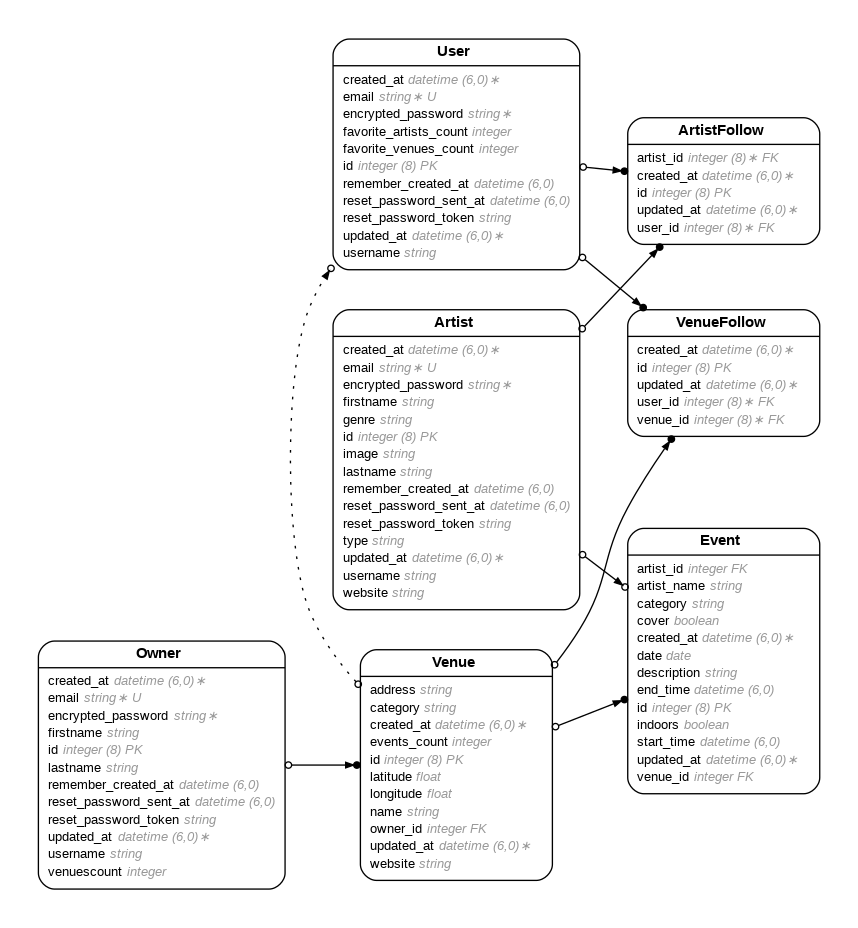
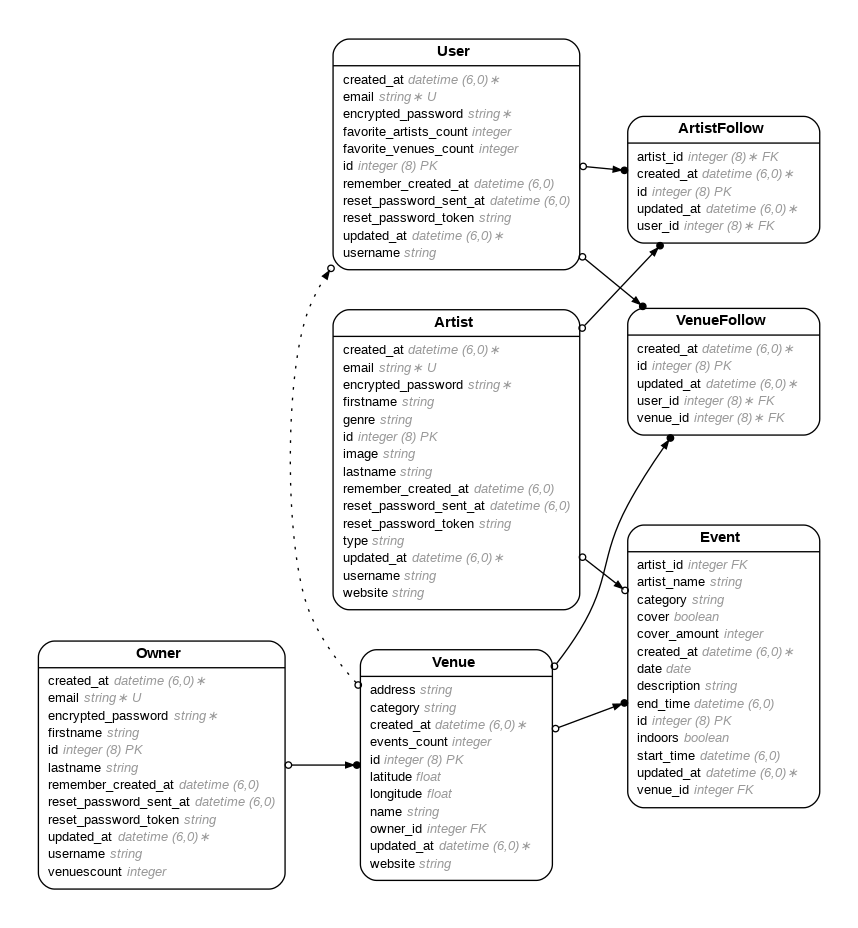
working event view

diff --git a/app/models/event.rb b/app/models/event.rb
@@ -2,19 +2,20 @@
 #
 # Table name: events
 #
-#  id          :bigint           not null, primary key
-#  artist_name :string
-#  category    :string
-#  cover       :boolean
-#  date        :date
-#  description :string
-#  end_time    :datetime
-#  indoors     :boolean
-#  start_time  :datetime
-#  created_at  :datetime         not null
-#  updated_at  :datetime         not null
-#  artist_id   :integer
-#  venue_id    :integer
+#  id           :bigint           not null, primary key
+#  artist_name  :string
+#  category     :string
+#  cover        :boolean
+#  cover_amount :integer
+#  date         :date
+#  description  :string
+#  end_time     :datetime
+#  indoors      :boolean
+#  start_time   :datetime
+#  created_at   :datetime         not null
+#  updated_at   :datetime         not null
+#  artist_id    :integer
+#  venue_id     :integer
 #
 class Event < ApplicationRecord
   belongs_to :venue

diff --git a/db/schema.rb b/db/schema.rb
@@ -10,7 +10,7 @@
 #
 # It's strongly recommended that you check this file into your version control system.
 
-ActiveRecord::Schema[8.0].define(version: 2025_05_09_213217) do
+ActiveRecord::Schema[8.0].define(version: 2025_05_11_164501) do
   # These are extensions that must be enabled in order to support this database
   enable_extension "pg_catalog.plpgsql"
 
@@ -55,6 +55,7 @@ ActiveRecord::Schema[8.0].define(version: 2025_05_09_213217) do
     t.datetime "created_at", null: false
     t.datetime "updated_at", null: false
     t.string "artist_name"
+    t.integer "cover_amount"
   end
 
   create_table "follows", force: :cascade do |t|

diff --git a/app/controllers/events_controller.rb b/app/controllers/events_controller.rb
@@ -9,6 +9,7 @@ class EventsController < ApplicationController
 
   # GET /events/1
   def show
+    @event = Event.find(params[:id])
   end
 
   # GET /events/new

diff --git a/db/migrate/20250511164501_add_cover_amount_to_events.rb b/db/migrate/20250511164501_add_cover_amount_to_events.rb
@@ -1,0 +1,5 @@
+class AddCoverAmountToEvents < ActiveRecord::Migration[8.0]
+  def change
+    add_column :events, :cover_amount, :integer
+  end
+end
